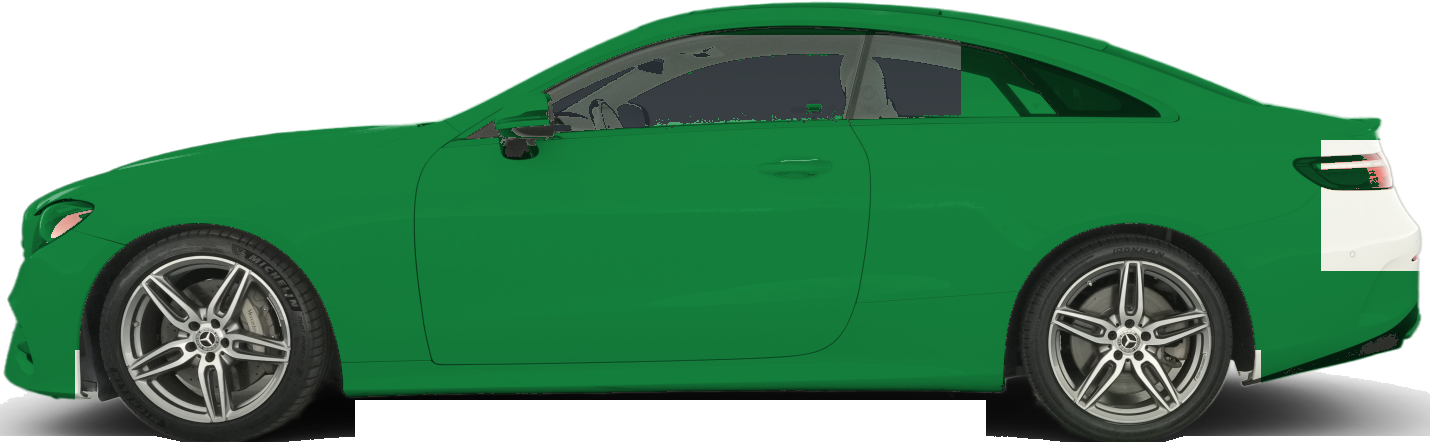
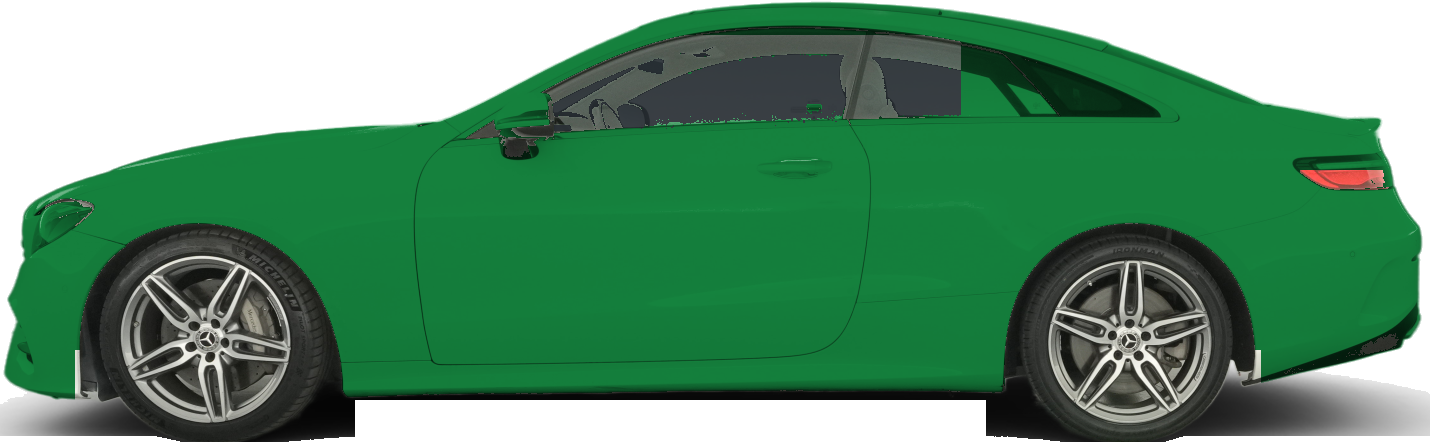
fix(garage): switch to authentic OEM factory color options and eliminate broken bumper patches

Changed region(s): [[0.8923, 0.3125, 1.0, 0.625], [0.0308, 0.4375, 0.0615, 0.5312]]

diff --git a/frontend/src/features/my/GarageSection.tsx b/frontend/src/features/my/GarageSection.tsx
@@ -304,23 +304,29 @@ export function GarageSection({ prefs, update }: GarageSectionProps) {
                       </button>
                     </div>
 
-                    <label
-                      title={t('garage.colorPicker')}
-                      className="relative flex cursor-pointer items-center gap-1.5 rounded-md px-1.5 py-0.5 text-[11px] font-mono text-muted hover:bg-surface hover:text-ink transition"
-                    >
-                      <span
-                        className="size-2.5 rounded-full border border-line shrink-0"
-                        style={{ backgroundColor: currentColor }}
-                      />
-                      <span>{currentColor}</span>
-                      <input
-                        type="color"
-                        value={currentColor}
-                        onChange={(e) => handleColorChange(car.id, e.target.value)}
-                        className="absolute inset-0 cursor-pointer opacity-0"
-                        aria-label={t('garage.customColor')}
-                      />
-                    </label>
+                    {(() => {
+                      const matchedPreset = VEHICLE_COLOR_PRESETS.find(
+                        (p) => p.hex.toLowerCase() === currentColor.toLowerCase(),
+                      )
+                      const displayName = matchedPreset ? matchedPreset.labelZh : currentColor
+                      return (
+                        <button
+                          type="button"
+                          onClick={() => {
+                            setEditingColorId(editingColorId === car.id ? null : car.id)
+                            setEditingPhotoId(null)
+                          }}
+                          className="flex items-center gap-1.5 rounded-md px-1.5 py-0.5 text-[11px] font-medium text-muted hover:bg-surface hover:text-ink transition"
+                          title={displayName}
+                        >
+                          <span
+                            className="size-2.5 rounded-full border border-line shrink-0"
+                            style={{ backgroundColor: currentColor }}
+                          />
+                          <span>{displayName}</span>
+                        </button>
+                      )
+                    })()}
                   </div>
 
                   {/* Photo Customization Panel */}
@@ -405,32 +411,11 @@ export function GarageSection({ prefs, update }: GarageSectionProps) {
                         })}
                       </div>
 
-                      {/* Prominent Native Color Palette Picker Button */}
-                      <label
-                        title={t('garage.colorPicker')}
-                        className="inline-flex cursor-pointer items-center gap-1.5 rounded-lg border border-line bg-surface px-2 py-0.5 text-[11px] font-medium text-ink shadow-2xs transition hover:border-accent hover:bg-sunken/40"
-                      >
-                        <div className="relative size-3.5 overflow-hidden rounded-full border border-line shadow-2xs shrink-0">
-                          <input
-                            type="color"
-                            value={currentColor}
-                            onChange={(e) => handleColorChange(car.id, e.target.value)}
-                            className="absolute -inset-2 size-8 cursor-pointer opacity-0"
-                            aria-label={t('garage.colorPicker')}
-                          />
-                          <span
-                            className="block size-full rounded-full"
-                            style={{ backgroundColor: currentColor }}
-                          />
-                        </div>
-                        <span>{t('garage.colorPicker')}</span>
-                      </label>
-
-                      {/* Reset to Default Color Shortcut */}
+                      {/* Reset to Factory Original Color */}
                       {currentColor.toLowerCase() !== '#ffffff' && currentColor.toLowerCase() !== '#f8fafc' ? (
                         <button
                           type="button"
-                          onClick={() => handleColorChange(car.id, '#ffffff')}
+                          onClick={() => handleColorChange(car.id, '#f8fafc')}
                           className="ml-auto inline-flex items-center gap-1 text-[11px] text-muted hover:text-ink hover:underline"
                         >
                           <span>{t('garage.resetColor')}</span>
@@ -516,19 +501,6 @@ export function GarageSection({ prefs, update }: GarageSectionProps) {
                     />
                   )
                 })}
-                <label
-                  title={t('garage.customColor')}
-                  className="grid size-6 cursor-pointer place-items-center rounded-full border border-dashed border-line hover:border-ink hover:scale-115 transition-transform"
-                >
-                  <PlusIcon size={12} className="text-muted" />
-                  <input
-                    type="color"
-                    value={newCarColor}
-                    onChange={(e) => setNewCarColor(e.target.value)}
-                    className="sr-only"
-                    aria-label={t('garage.customColor')}
-                  />
-                </label>
               </div>
             </div>
 

diff --git a/frontend/src/lib/vehicleStyle.ts b/frontend/src/lib/vehicleStyle.ts
@@ -33,13 +33,13 @@ export interface VehicleColorPreset {
 }
 
 export const VEHICLE_COLOR_PRESETS: VehicleColorPreset[] = [
+  { id: 'white', name: 'Polar White', hex: '#f8fafc', labelZh: '極地白 (原廠)', labelEn: 'Polar White' },
   { id: 'obsidian', name: 'Obsidian Black', hex: '#1e293b', labelZh: '曜石黑', labelEn: 'Obsidian Black' },
-  { id: 'white', name: 'Pearl White', hex: '#f8fafc', labelZh: '珍珠白', labelEn: 'Pearl White' },
-  { id: 'grey', name: 'Nardo Grey', hex: '#64748b', labelZh: '水泥灰', labelEn: 'Nardo Grey' },
-  { id: 'silver', name: 'Liquid Silver', hex: '#94a3b8', labelZh: '液態銀', labelEn: 'Liquid Silver' },
-  { id: 'blue', name: 'Deep Metallic Blue', hex: '#1d4ed8', labelZh: '金屬藍', labelEn: 'Deep Metallic Blue' },
-  { id: 'red', name: 'Soul Red', hex: '#dc2626', labelZh: '烈焰紅', labelEn: 'Soul Red' },
-  { id: 'green', name: 'Racing Green', hex: '#15803d', labelZh: '英倫綠', labelEn: 'Racing Green' },
+  { id: 'grey', name: 'Selenite Grey', hex: '#64748b', labelZh: '月光石灰', labelEn: 'Selenite Grey' },
+  { id: 'silver', name: 'Iridium Silver', hex: '#94a3b8', labelZh: '銥銀', labelEn: 'Iridium Silver' },
+  { id: 'blue', name: 'Lunar Blue', hex: '#1d4ed8', labelZh: '寶石藍', labelEn: 'Lunar Blue' },
+  { id: 'red', name: 'Cardinal Red', hex: '#dc2626', labelZh: '經典紅', labelEn: 'Cardinal Red' },
+  { id: 'green', name: 'Emerald Green', hex: '#15803d', labelZh: '祖母綠', labelEn: 'Emerald Green' },
   { id: 'gold', name: 'Champagne Gold', hex: '#d97706', labelZh: '香檳金', labelEn: 'Champagne Gold' },
   { id: 'orange', name: 'Sunset Orange', hex: '#ea580c', labelZh: '熔岩橘', labelEn: 'Sunset Orange' },
   { id: 'purple', name: 'Midnight Purple', hex: '#7e22ce', labelZh: '魅夜紫', labelEn: 'Midnight Purple' },

diff --git a/frontend/src/features/my/MyPage.test.tsx b/frontend/src/features/my/MyPage.test.tsx
@@ -292,11 +292,11 @@ describe('MyPage', () => {
     )
 
     // Open color customization
-    const colorBtn = screen.getByRole('button', { name: 'Vehicle Color' })
+    const colorBtn = screen.getByRole('button', { name: /Color/i })
     fireEvent.click(colorBtn)
 
-    // Pick Soul Red
-    const redBtn = screen.getByRole('button', { name: 'Soul Red' })
+    // Pick Red preset
+    const redBtn = screen.getByRole('button', { name: /Red/i })
     fireEvent.click(redBtn)
 
     expect(update).toHaveBeenCalledWith(

diff --git a/frontend/src/i18n/ja.ts b/frontend/src/i18n/ja.ts
@@ -690,7 +690,7 @@ export const ja: Record<MessageKey, string> = {
   "garage.archetype.hatchback": "ハッチバック",
   "garage.archetype.wagon": "ステーションワゴン",
   "garage.archetype.van": "ミニバン",
-  "garage.color": "ボディカラー変更",
+  "garage.color": "純正ボディカラー",
   "garage.customColor": "カスタムカラー",
   "garage.colorPicker": "カラーパレット",
   "garage.resetColor": "純正色に戻す",

diff --git a/frontend/src/i18n/es.ts b/frontend/src/i18n/es.ts
@@ -711,7 +711,7 @@ export const es: Record<MessageKey, string> = {
   "garage.archetype.hatchback": "Hatchback",
   "garage.archetype.wagon": "Familiar",
   "garage.archetype.van": "Monovolumen",
-  "garage.color": "Color del vehiculo",
+  "garage.color": "Color de fábrica",
   "garage.customColor": "Color personalizado",
   "garage.colorPicker": "Paleta de colores",
   "garage.resetColor": "Restablecer color",

diff --git a/frontend/src/i18n/ko.ts b/frontend/src/i18n/ko.ts
@@ -690,7 +690,7 @@ export const ko: Record<MessageKey, string> = {
   "garage.archetype.hatchback": "해치백",
   "garage.archetype.wagon": "왜건",
   "garage.archetype.van": "미니밴",
-  "garage.color": "차량 색상 설정",
+  "garage.color": "순정 차량 색상",
   "garage.customColor": "커스텀 색상",
   "garage.colorPicker": "컬러 팔레트",
   "garage.resetColor": "순정 색상 복원",

diff --git a/frontend/src/i18n/zh-CN.ts b/frontend/src/i18n/zh-CN.ts
@@ -711,7 +711,7 @@ export const zhCN: Record<MessageKey, string> = {
   "garage.archetype.hatchback": "掀背车",
   "garage.archetype.wagon": "旅行车",
   "garage.archetype.van": "厢型休旅",
-  "garage.color": "车身颜色定制",
+  "garage.color": "原厂车色",
   "garage.customColor": "自定义车色",
   "garage.colorPicker": "调色板选色",
   "garage.resetColor": "恢复出厂色",

diff --git a/frontend/src/i18n/zh-TW.ts b/frontend/src/i18n/zh-TW.ts
@@ -711,7 +711,7 @@ export const zhTW: Record<MessageKey, string> = {
   "garage.archetype.hatchback": "掀背鋼砲",
   "garage.archetype.wagon": "旅行車",
   "garage.archetype.van": "廂型休旅",
-  "garage.color": "車色客製化",
+  "garage.color": "原廠車色",
   "garage.customColor": "自訂車色",
   "garage.colorPicker": "調色盤選色",
   "garage.resetColor": "還原原廠色",

diff --git a/frontend/src/i18n/en.ts b/frontend/src/i18n/en.ts
@@ -711,7 +711,7 @@ export const en = {
   "garage.archetype.hatchback": "Hatchback",
   "garage.archetype.wagon": "Station Wagon",
   "garage.archetype.van": "Minivan",
-  "garage.color": "Vehicle Color",
+  "garage.color": "Factory Color",
   "garage.customColor": "Custom color",
   "garage.colorPicker": "Color Palette",
   "garage.resetColor": "Reset Color",
